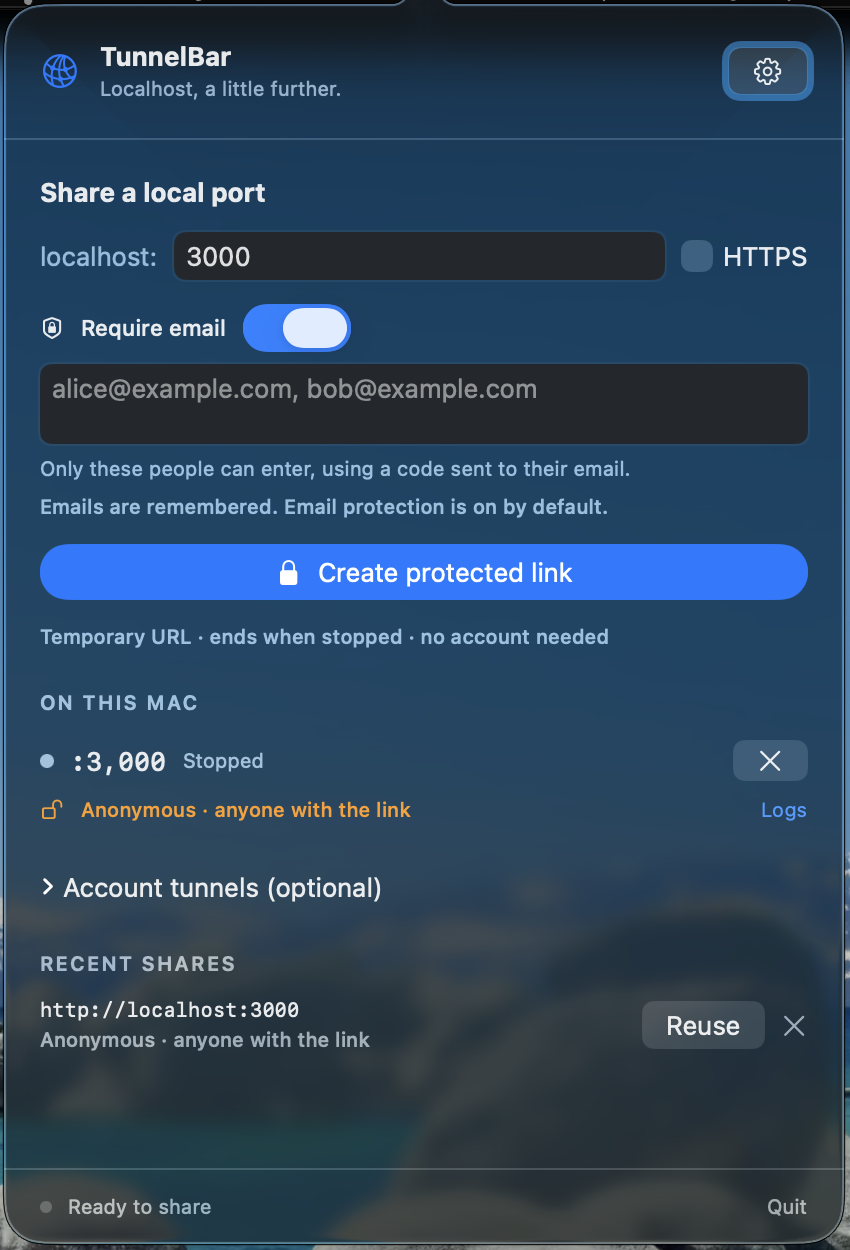
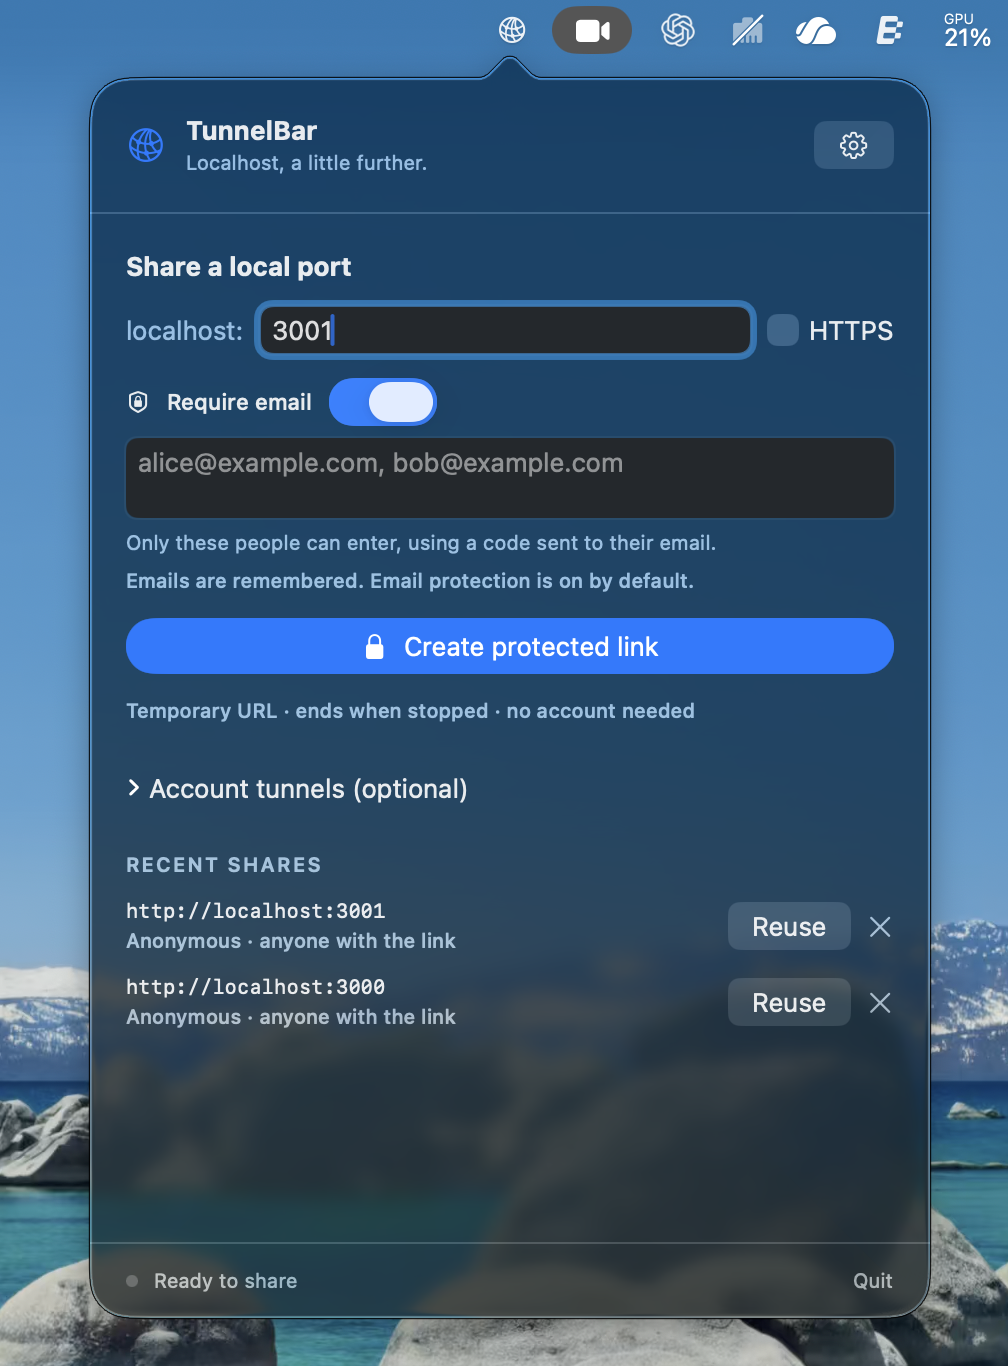
Replace landing page screenshot with updated menu bar capture

diff --git a/site/index.html b/site/index.html
@@ -36,7 +36,7 @@
             <p class="affiliation-note">An independent project. Not affiliated with, sponsored by, or endorsed by Cloudflare.</p>
           </div>
           <figure class="product-figure">
-            <img class="app-screenshot" src="assets/tunnelbar-macos.png" width="850" height="1250" fetchpriority="high" alt="TunnelBar’s native macOS menu bar panel, showing local port 3000, the Require email switch, an anonymous stopped share, and recent shares.">
+            <img class="app-screenshot" src="assets/tunnelbar-macos.png" width="1008" height="1366" fetchpriority="high" alt="TunnelBar’s native macOS menu bar panel, showing local port 3001, email protection enabled, optional account tunnels, and recent anonymous shares.">
             <figcaption>TunnelBar on macOS · actual app screenshot</figcaption>
           </figure>
         </div>
